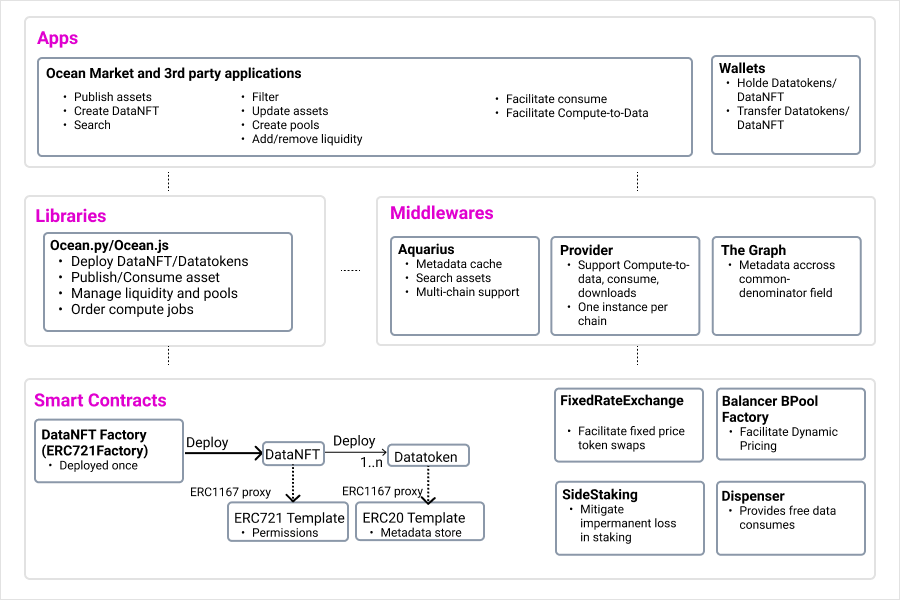
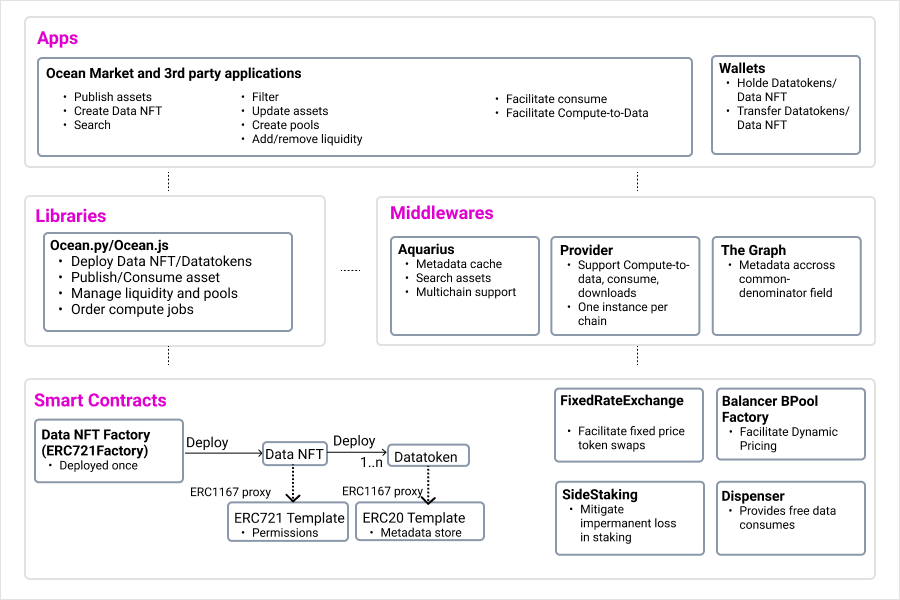
Issue-#908: Fix architecture diagram, other minor fixes

diff --git a/content/concepts/architecture.md b/content/concepts/architecture.md
@@ -65,9 +65,9 @@ The [DDO Metadata documentation](https://docs.oceanprotocol.com/concepts/ddo-met
 
 [OEP8](/concepts/did-ddo/) specifies Ocean metadata schema, including fields that must be filled. It’s based on the public [DataSet schema from schema.org](https://schema.org/Dataset).
 
-Ocean uses the Ethereum mainnet and other compatible networks as an **on-chain metadata store**, i.e. to store both DID and DDO. This means that once the transaction fee is paid, there are no further expenses or dev-ops work needed to ensure metadata availability into the future, aiding in the discoverability of data assets. It also simplifies integration with the rest of the Ocean system, which is Ethereum-based. Storage cost on Ethereum mainnet is not negligible, but not prohibitive and the other benefits are currently worth the tradeoff compared to alternatives.
+Ocean uses the Ethereum mainnet and other compatible networks as an **on-chain metadata store**, i.e. to store both DID and DDO. This means that once the transaction fee is paid, there are no further expenses or devops work needed to ensure metadata availability into the future, aiding in the discoverability of data assets. It also simplifies integration with the rest of the Ocean system, which is Ethereum-based. Storage cost on Ethereum mainnet is not negligible, but not prohibitive and the other benefits are currently worth the trade-off compared to alternatives.
 
-Due to the permissionless, decentralized nature of data on the Ethereum mainnet, any last-mile tool can access metadata. **Ocean Aquarius** supports different metadata fields for each different Ocean-based marketplace. Developers could also use [The Graph](https://www.thegraph.com) to see metadata fields that are common across all marketplaces.
+Due to the permissionless, decentralized nature of data on the Ethereum mainnet, any last mile tool can access metadata. **Ocean Aquarius** supports different metadata fields for each different Ocean-based marketplace. Developers could also use [The Graph](https://www.thegraph.com) to see metadata fields that are common across all marketplaces.
 
 <repo name="aquarius"></repo>
 
